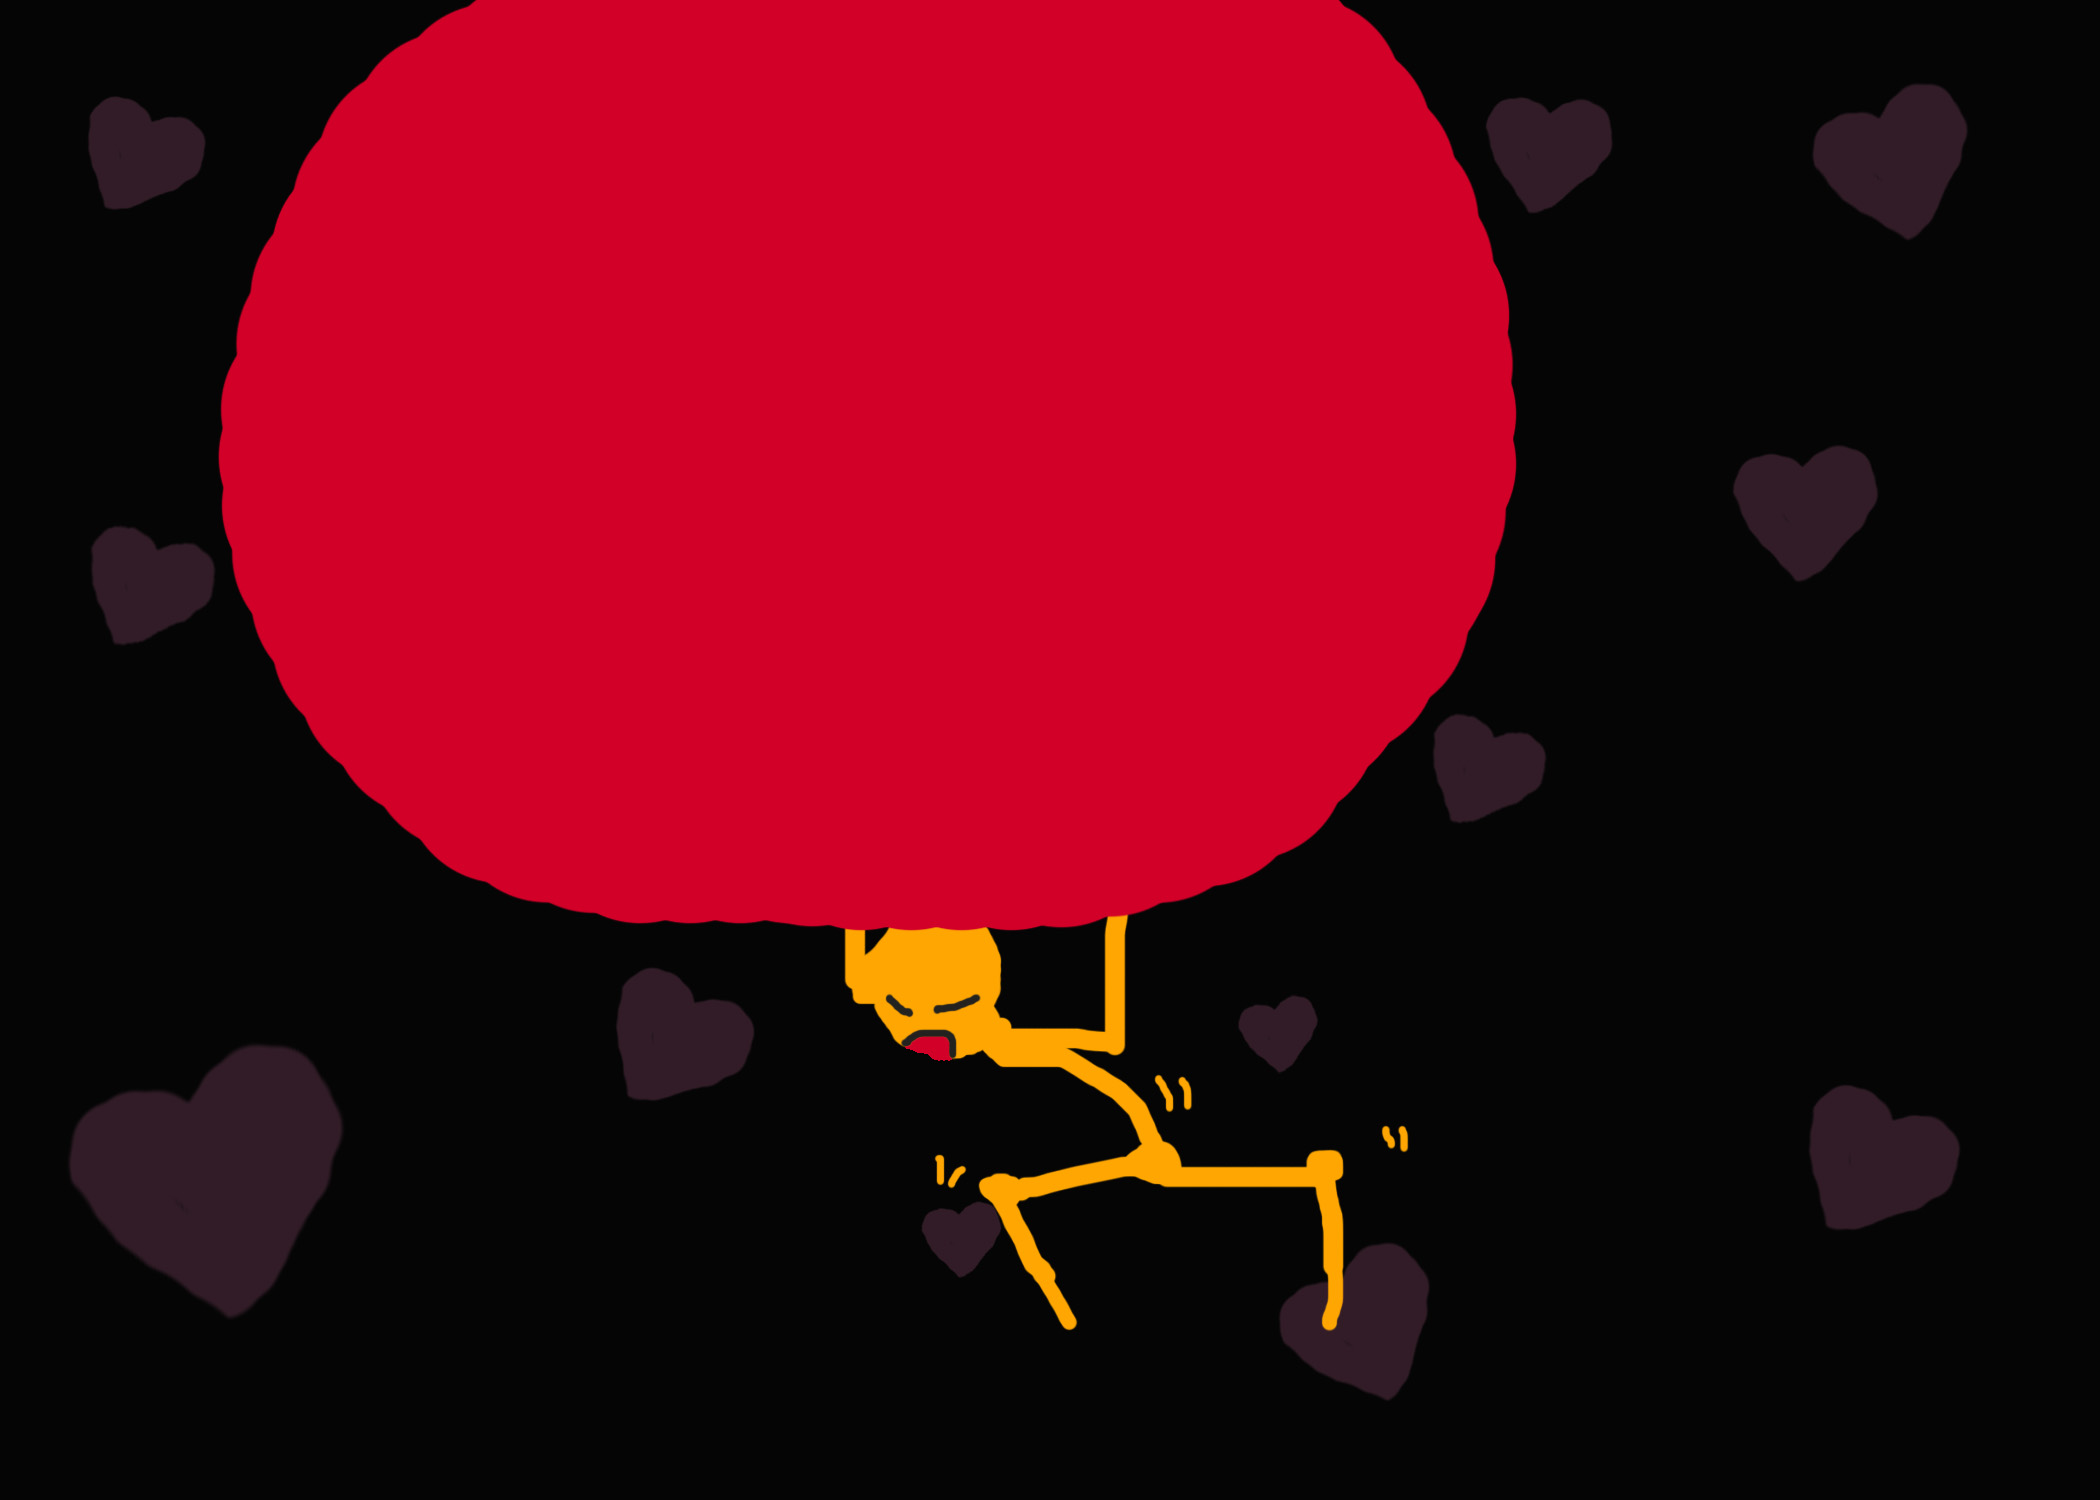
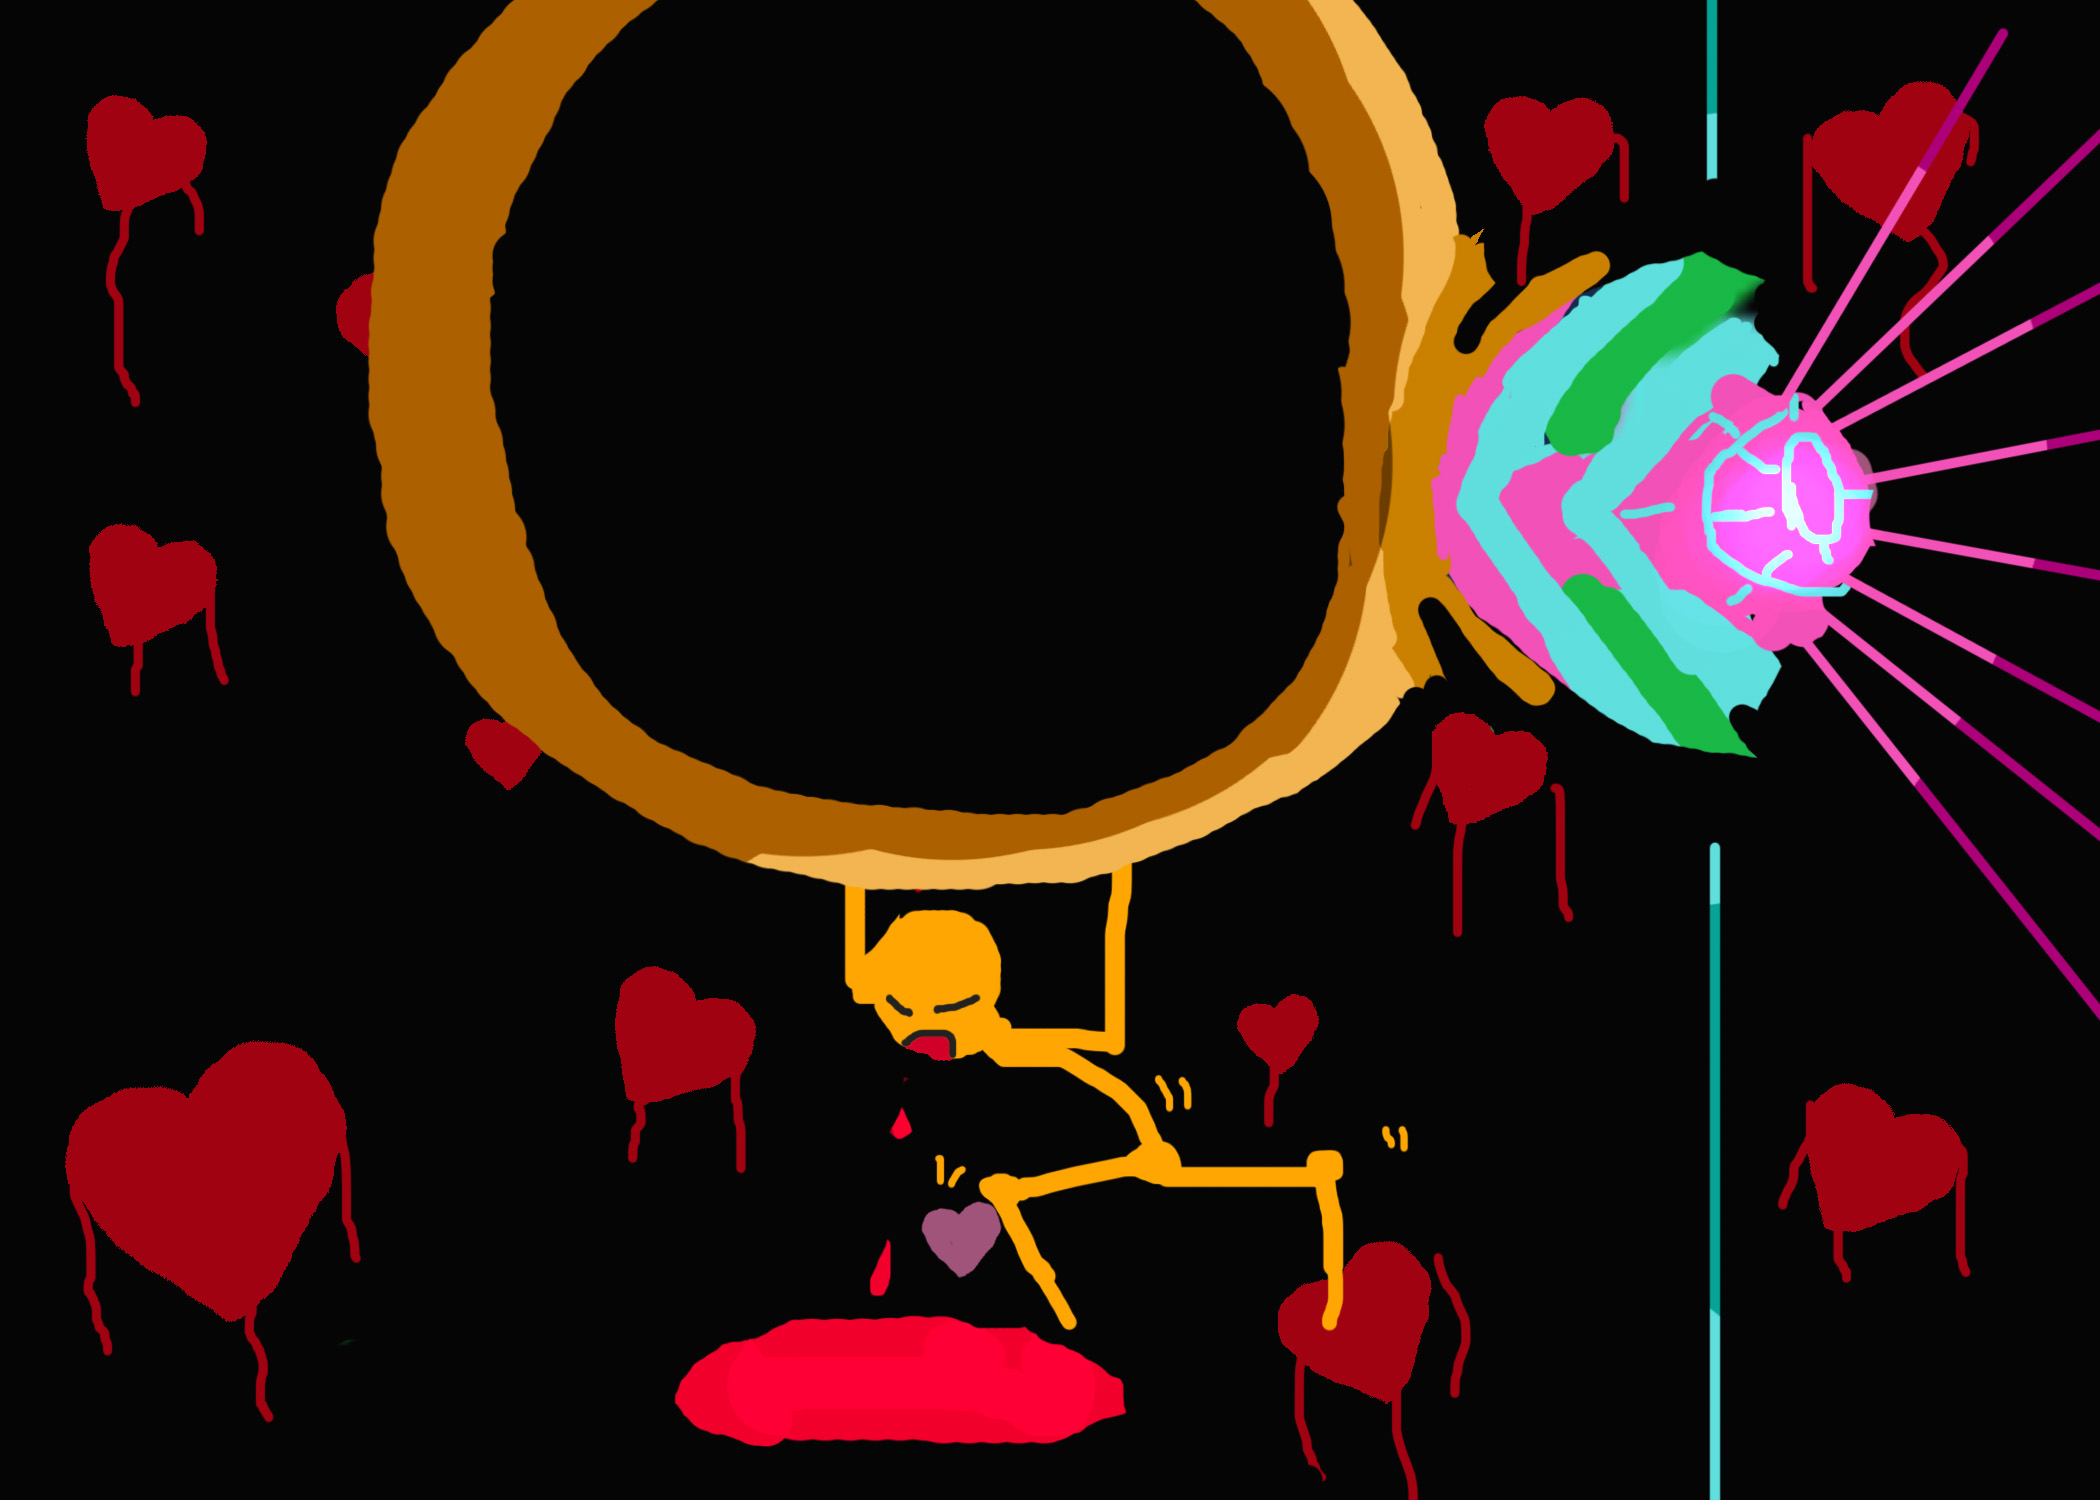
P1: edited some illustrations and added illustration for the waking up scene

diff --git a/projects/project1/js/script.js b/projects/project1/js/script.js
@@ -36,6 +36,7 @@ let caraccidentImage;
 let runawayendingImage;
 let workinginloveImage;
 let workingtiredImage;
+let shesaysyesImage;
 function preload(){
   contextImage=loadImage("assets/images/context.jpg")
   day1Image=loadImage("assets/images/day1.jpg")
@@ -53,6 +54,7 @@ function preload(){
   runawayendingImage=loadImage("assets/images/runawayending.jpg")
   workinginloveImage=loadImage("assets/images/workinginlove.jpg")
   workingtiredImage=loadImage("assets/images/workingtired.jpg")
+  shesaysyesImage=loadImage("assets/images/shesaysyes.jpg")
 }
 let circle1 = {
   x:500,
@@ -314,13 +316,14 @@ function sleep(){
 background(0);
 textSize(30);
 textAlign(CENTER,CENTER);
-text(`You slept restlessly...`,width/2,400);
-text(`and wake up to a terrifying scream... `,width/2,400);
+text(`You slept restlessly...`,width/2,300);
+text(`and wake up to a familiar scream... `,width/2,400);
+text(`YESSSSSSSSSSSSS`,width/2,400);
 
 }
 
 function shesaysyes(){
-
+image(shesaysyesImage,0,0,1000,600);
 
 }
 
